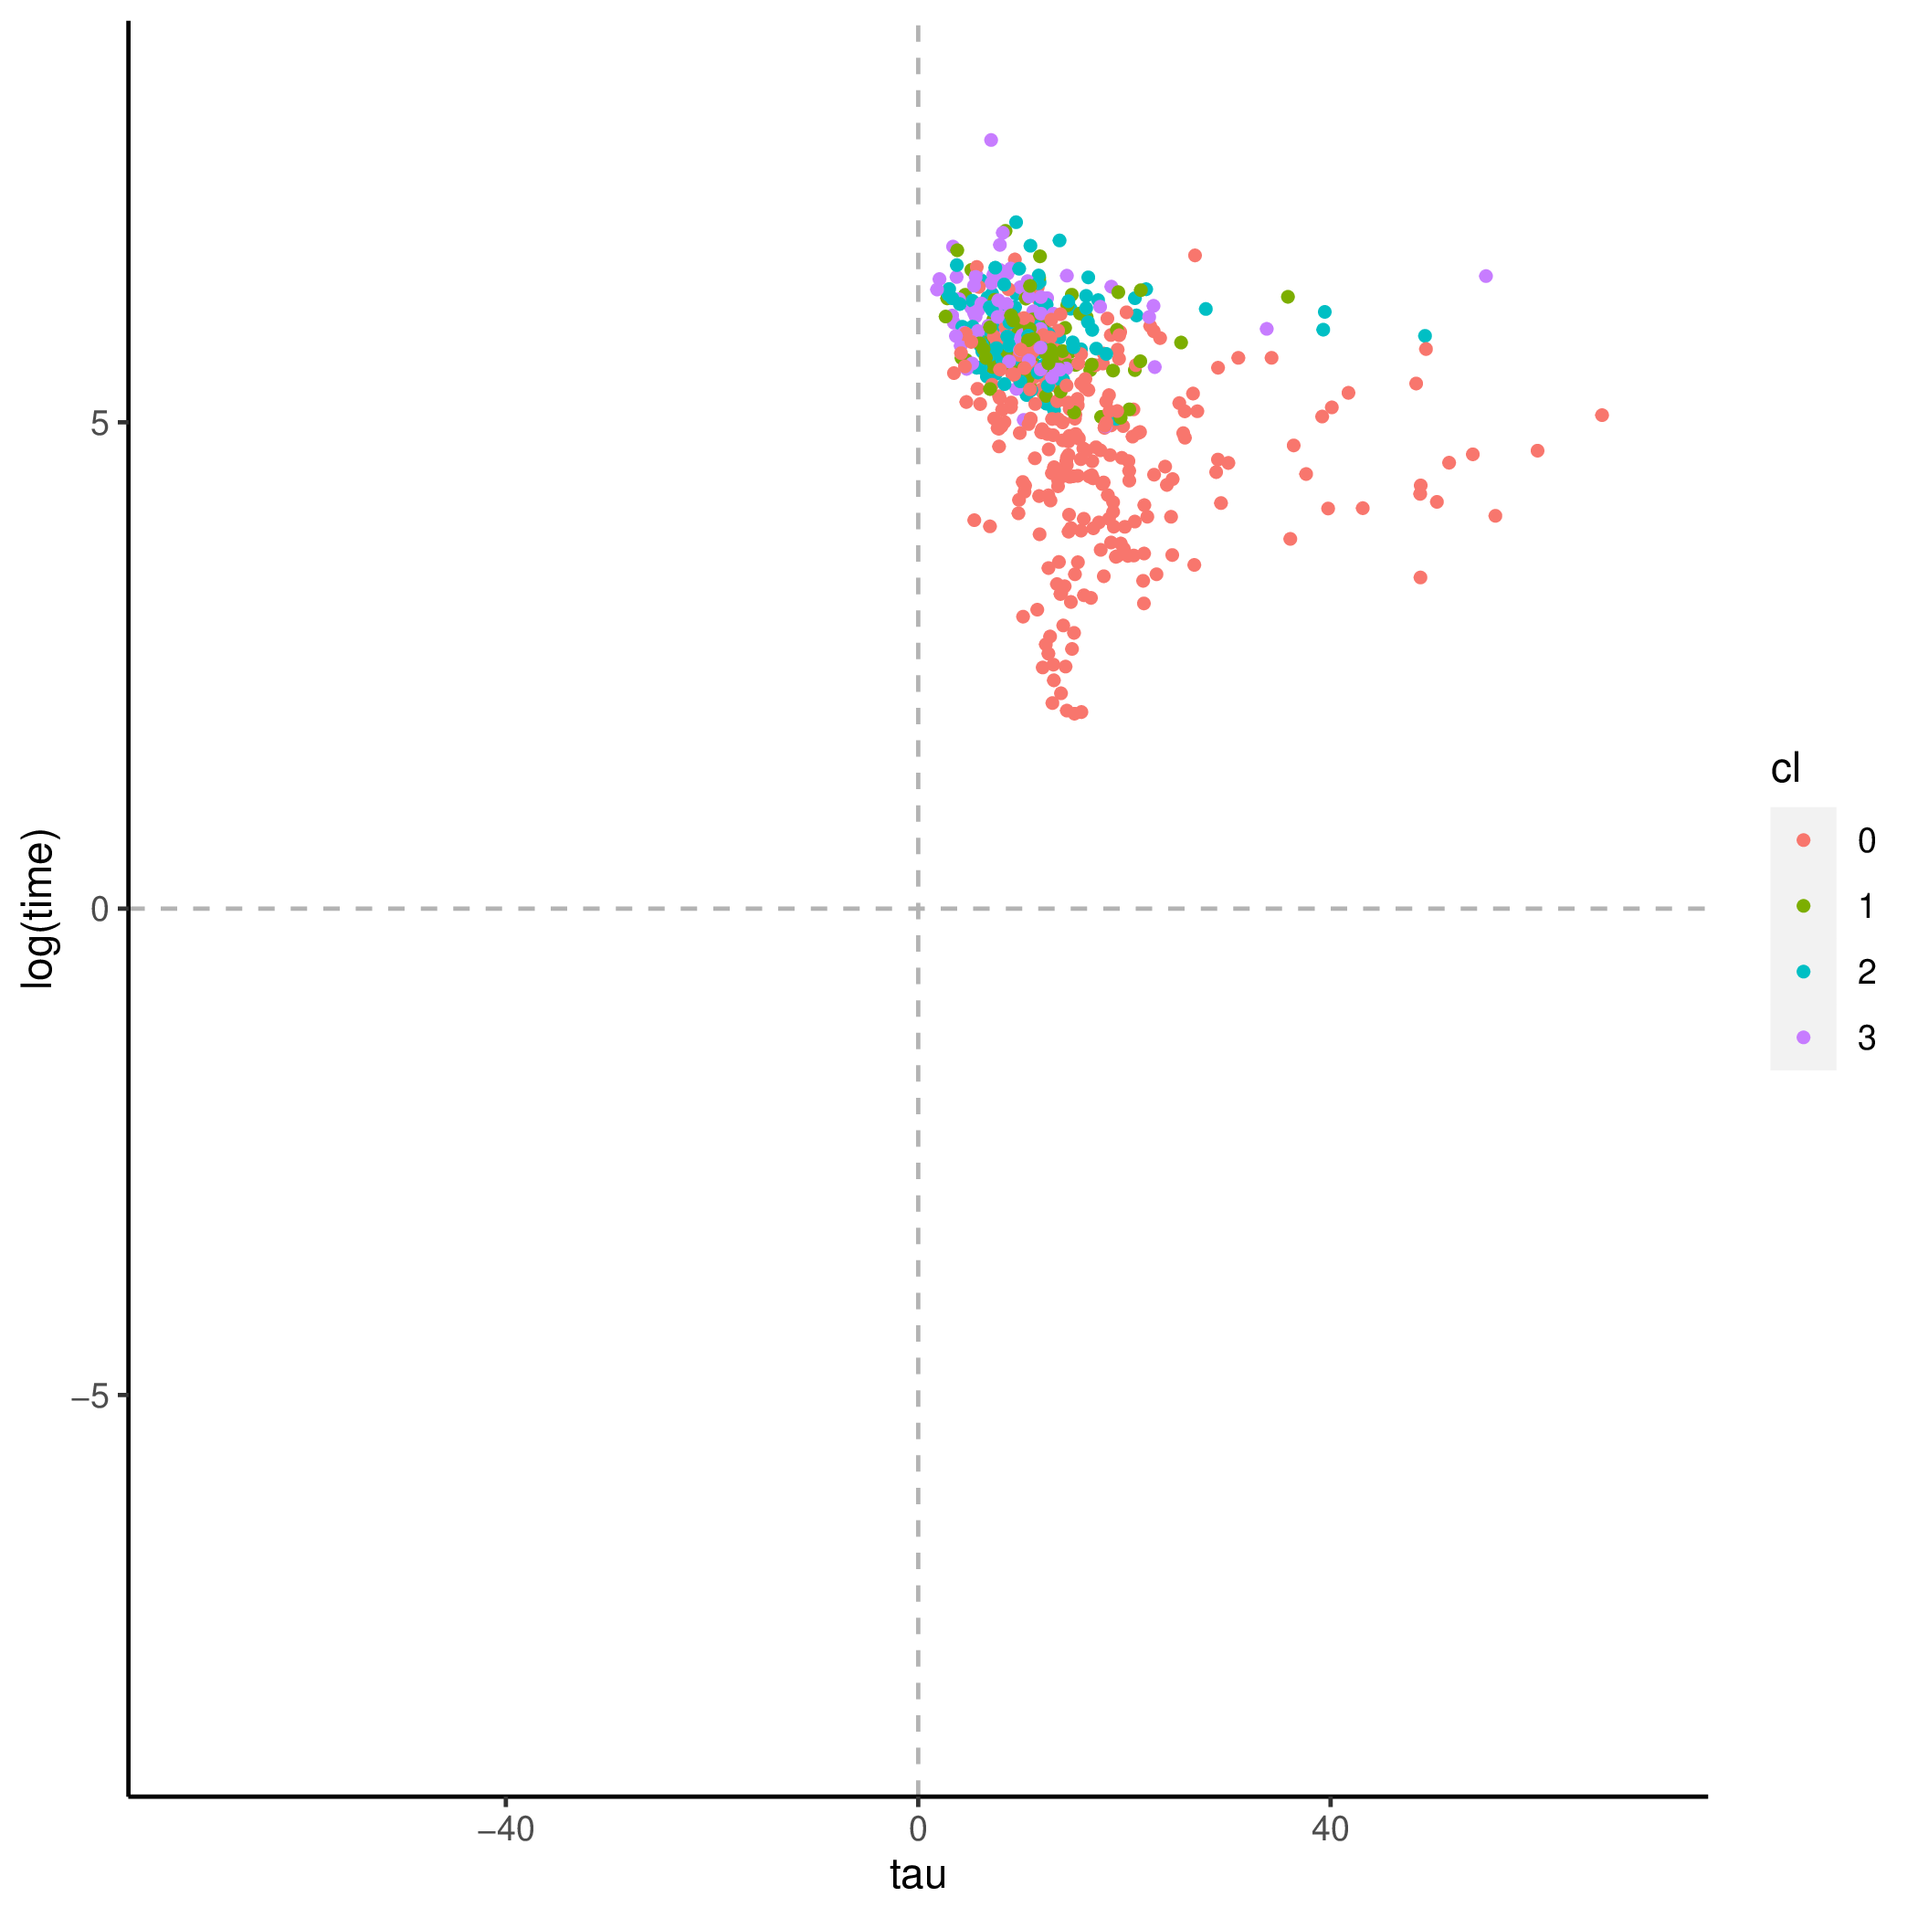
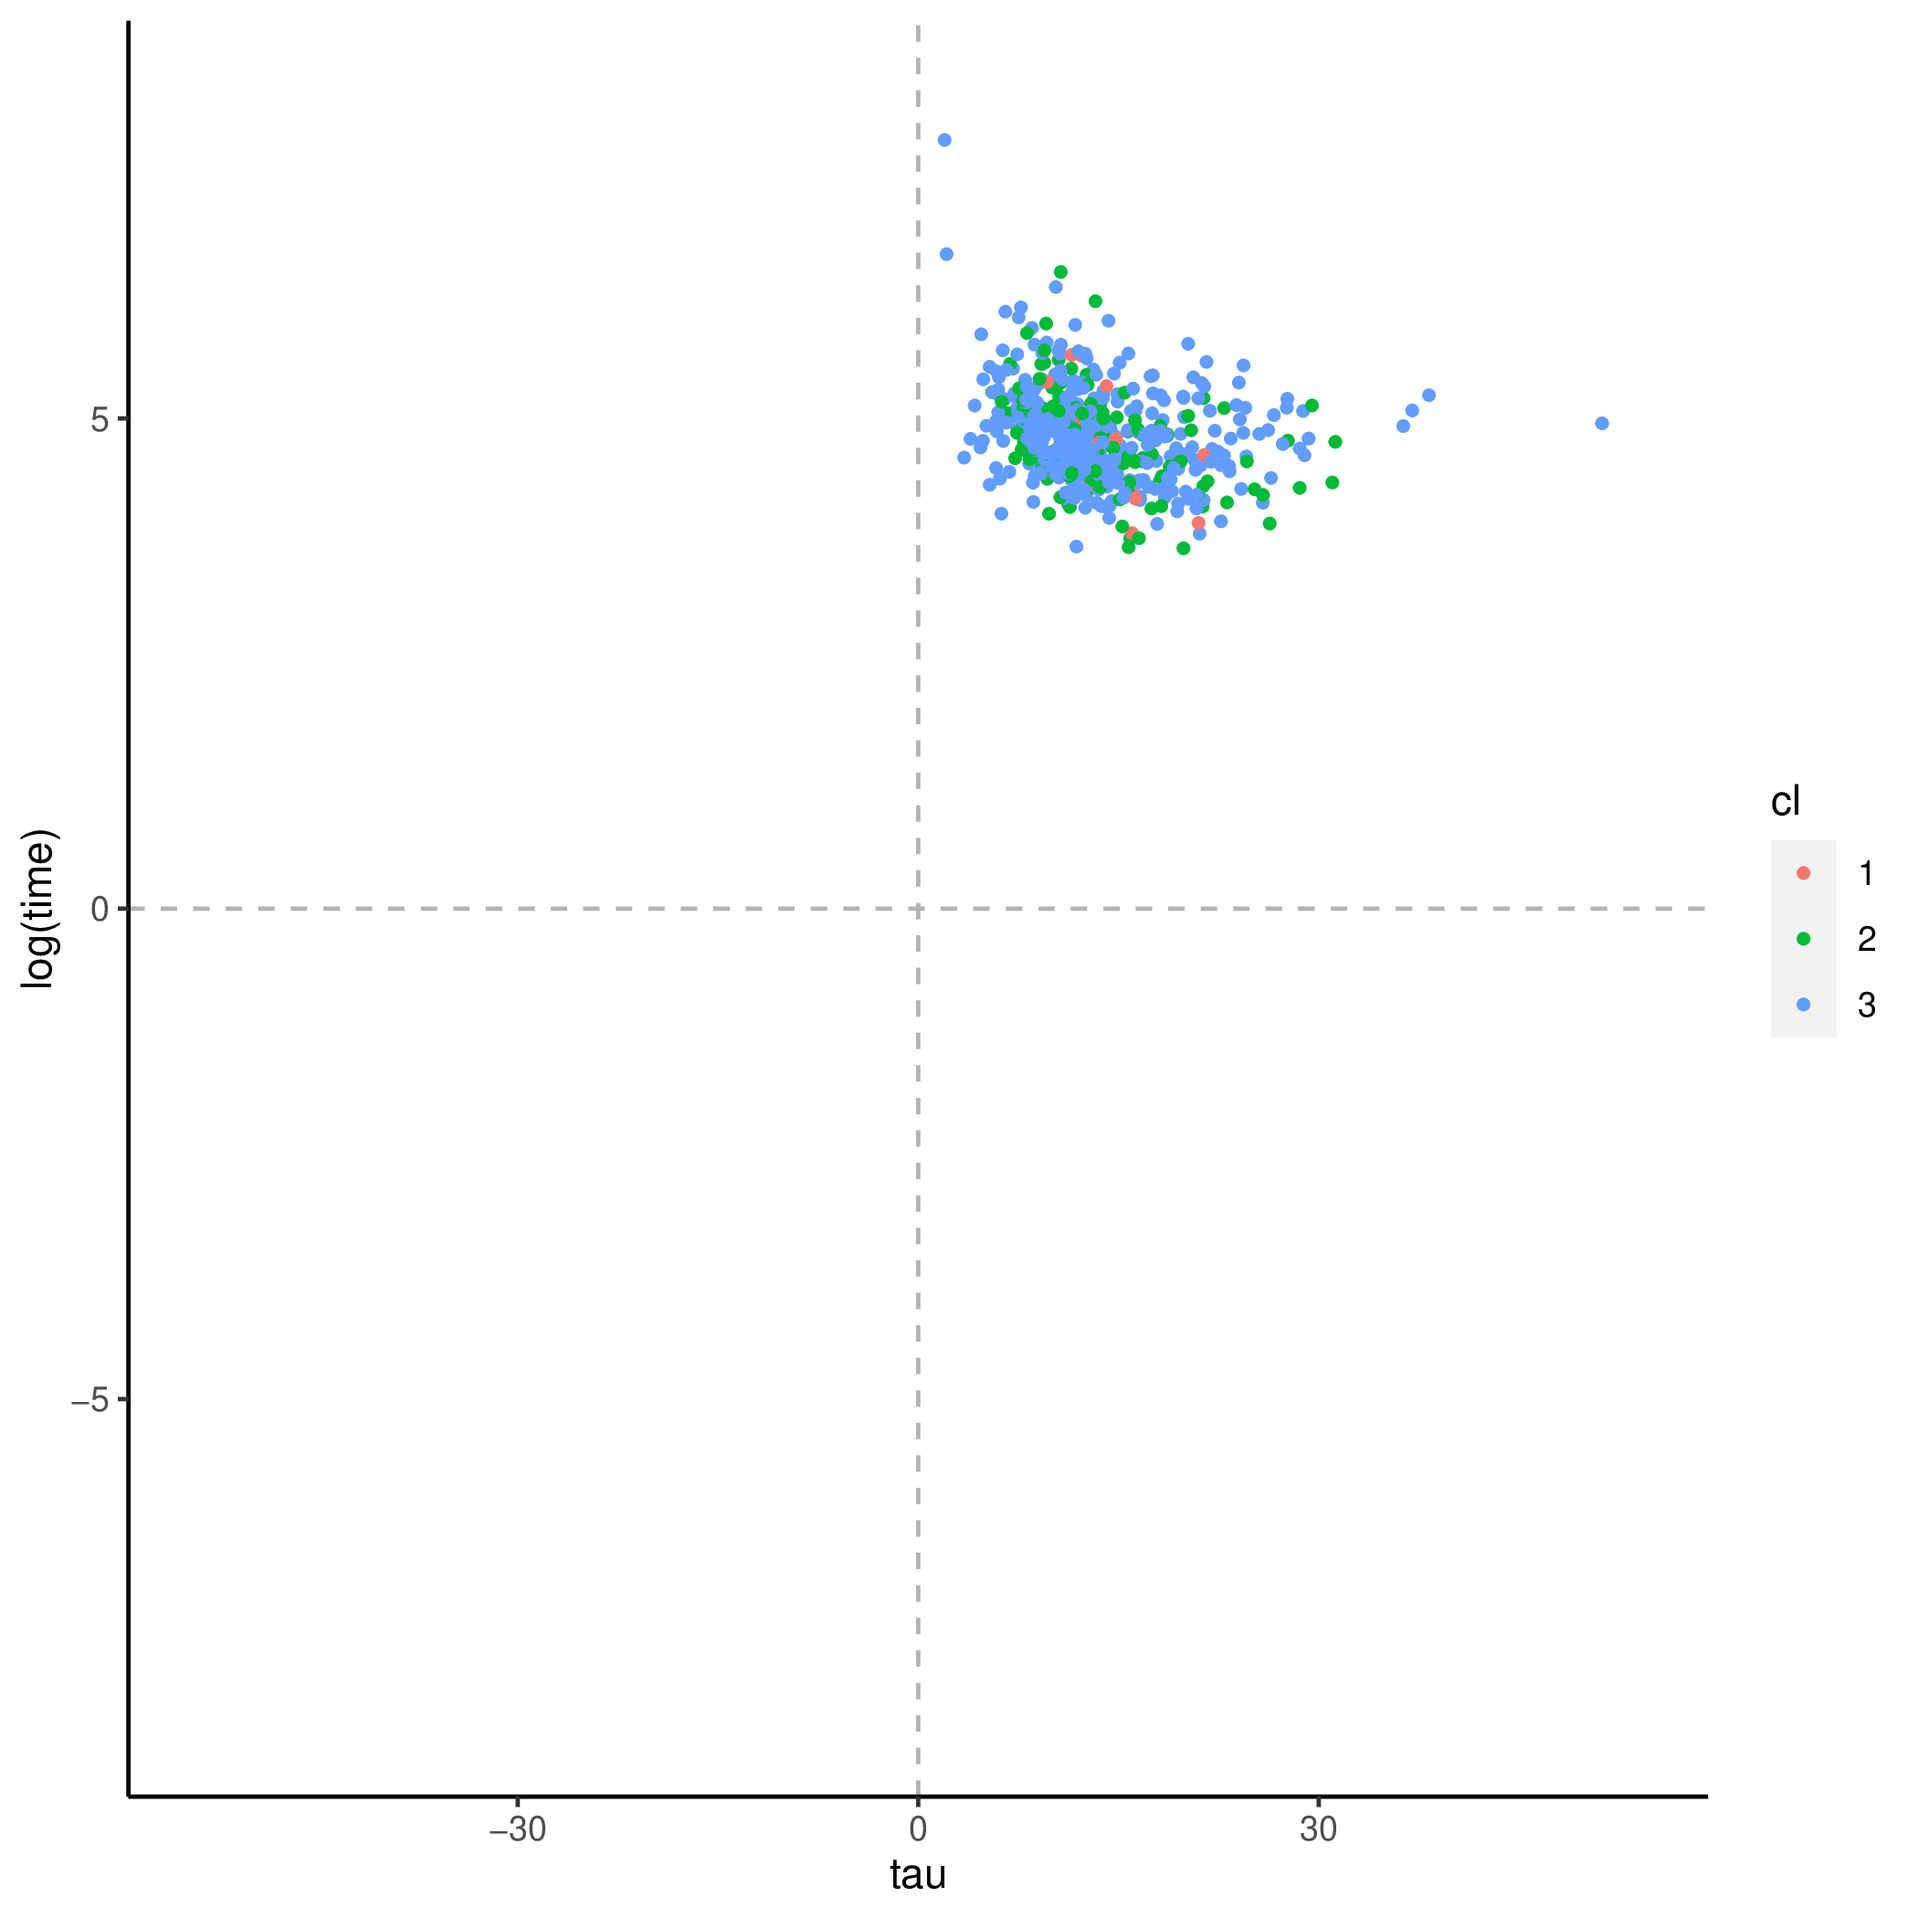
pushing changes 2021-09-14 15:08:01 CDT

diff --git a/docs/content/piacc/item_results/meeting_room/_index.md b/docs/content/piacc/item_results/meeting_room/_index.md
@@ -1,11 +1,12 @@
 +++
 title = "meeting_room"
 author = ["Jonghyun Yun"]
-lastmod = 2021-09-14T12:18:26-05:00
+lastmod = 2021-09-14T15:08:00-05:00
 draft = false
 +++
 
 ![](figure/theta_tau_res.png)
+![](figure/tau_action.png)
 ![](figure/time_action-3.png)
 ![](figure/time_action_more-2.png)
 ![](figure/time_action_more-5.png)
